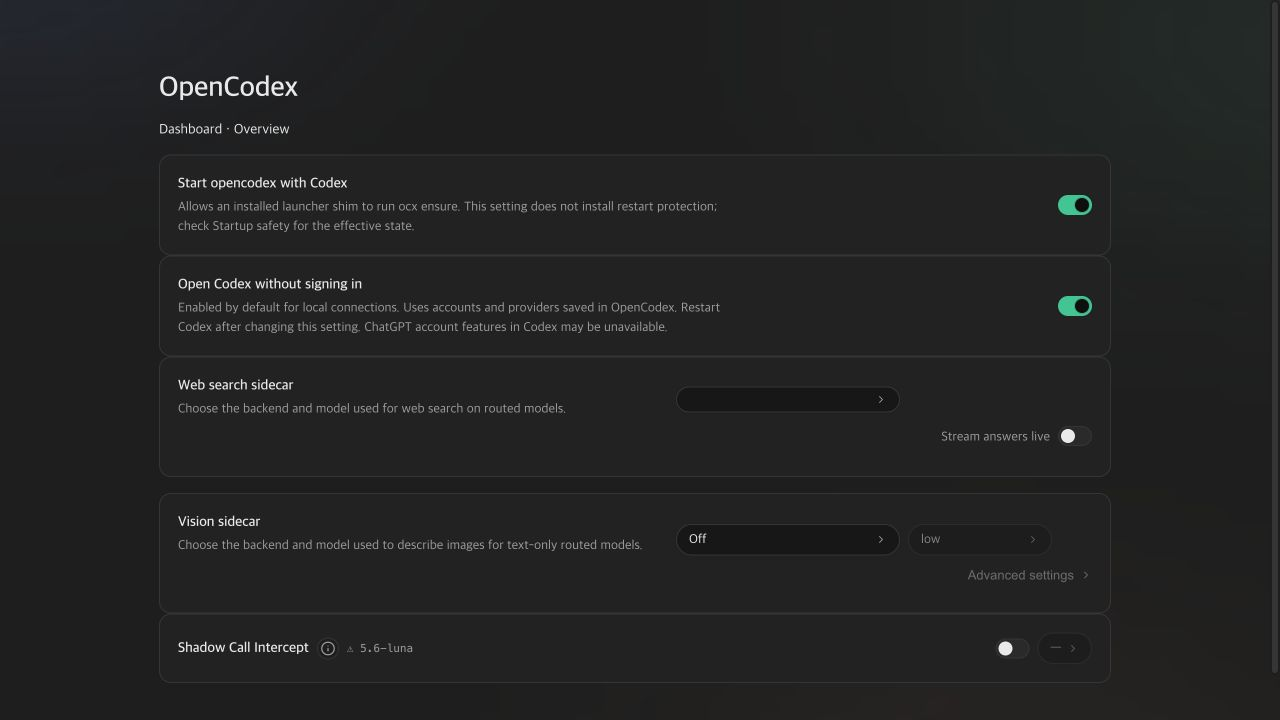
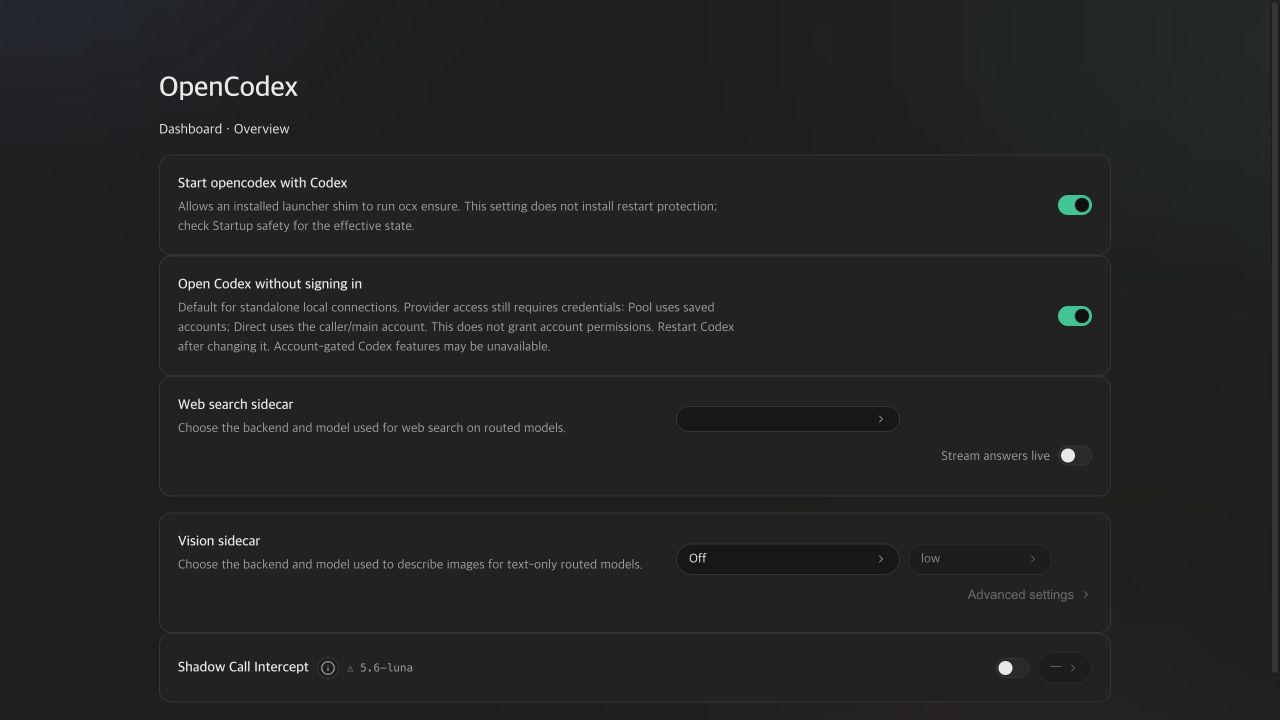
fix(codex): address authless routing and review feedback

diff --git a/gui/src/i18n/ru.ts b/gui/src/i18n/ru.ts
@@ -293,7 +293,7 @@ export const ru: Record<TKey, string> = {
   "dash.codexRestartTimeout": "Прокси не ответил вовремя. Возможно, он всё ещё останавливает app-server'ы.",
   "models.staleBanner": "Codex показывает список моделей старее этого каталога. Перезапустите Codex, чтобы перечитать его.",
   "dash.codexDesktopAuthless": "Открывать Codex без входа",
-  "dash.codexDesktopAuthlessHint": "Включено по умолчанию для локальных подключений. Использует аккаунты и провайдеров, сохранённых в OpenCodex. После изменения перезапустите Codex. Функции аккаунта ChatGPT в Codex могут быть недоступны.",
+  "dash.codexDesktopAuthlessHint": "По умолчанию для автономных локальных подключений. Доступ к провайдеру по-прежнему требует учётных данных: Pool использует сохранённые аккаунты, Direct — аккаунт вызывающей стороны/основной. Новых прав это не даёт. После изменения перезапустите Codex. Функции, требующие входа в аккаунт, могут быть недоступны.",
   "dash.codexAutoStart": "Запускать opencodex вместе с Codex",
   "dash.codexAutoStartHint": "Разрешает установленному launcher shim выполнять ocx ensure. Эта настройка не устанавливает защиту перезапуска; проверьте фактическое состояние в разделе безопасности запуска.",
   "dash.searchModel": "Модель сайдкара поиска",

diff --git a/gui/src/i18n/ja.ts b/gui/src/i18n/ja.ts
@@ -293,7 +293,7 @@ export const ja: Record<TKey, string> = {
   "dash.codexRestartTimeout": "プロキシから時間内に応答がありませんでした。app-server の停止が続いている可能性があります。",
   "models.staleBanner": "Codex はこのカタログより古いモデル一覧を表示しています。Codex を再起動すると読み直されます。",
   "dash.codexDesktopAuthless": "ログインせずに Codex を開く",
-  "dash.codexDesktopAuthlessHint": "ローカル接続では既定で有効です。OpenCodex に保存されたアカウントとプロバイダーを使用します。変更後は Codex を再起動してください。Codex 内の ChatGPT アカウント機能は利用できない場合があります。",
+  "dash.codexDesktopAuthlessHint": "単独のローカル接続では既定で有効です。プロバイダーへのアクセスには引き続き認証情報が必要です。Pool は保存済みアカウント、Direct は呼び出し元またはメインアカウントを使用します。アカウント権限は付与されません。変更後は Codex を再起動してください。アカウント必須の機能は利用できない場合があります。",
   "dash.codexAutoStart": "Codex と一緒に opencodex を起動",
   "dash.codexAutoStartHint": "インストール済み launcher shim に ocx ensure の実行を許可します。この設定だけでは再起動保護はインストールされません。起動安全性で実際の状態を確認してください。",
   "dash.searchModel": "検索サイドカーモデル",

diff --git a/gui/src/i18n/fr.ts b/gui/src/i18n/fr.ts
@@ -285,8 +285,8 @@ export const fr: Record<TKey, string> = {
   "dash.codexRestartMalformed": "Le proxy a renvoyé une réponse inattendue.",
   "dash.codexRestartTimeout": "Le proxy n’a pas répondu à temps. Il est peut-être encore en train d’arrêter les serveurs d’application.",
   "models.staleBanner": "Codex affiche une liste de modèles plus ancienne que ce catalogue. Redémarrez Codex pour la recharger.",
-  "dash.codexDesktopAuthless": "Ouvrir Codex sans connexion",
-  "dash.codexDesktopAuthlessHint": "Activé par défaut pour les connexions locales. Utilise les comptes et fournisseurs enregistrés dans OpenCodex. Redémarrez Codex après modification. Certaines fonctions du compte ChatGPT dans Codex peuvent être indisponibles.",
+  "dash.codexDesktopAuthless": "Ouvrir Codex sans se connecter",
+  "dash.codexDesktopAuthlessHint": "Par défaut pour les connexions locales autonomes. L’accès au fournisseur exige toujours des identifiants : Pool utilise les comptes enregistrés, Direct le compte appelant/principal. Aucun droit de compte supplémentaire n’est accordé. Redémarrez Codex après modification. Certaines fonctions liées au compte peuvent être indisponibles.",
   "dash.codexAutoStart": "Démarrer opencodex avec Codex",
   "dash.codexAutoStartHint": "Permet à un mécanisme de lancement installé d’exécuter ocx ensure. Ce réglage n’installe pas de protection au redémarrage ; consultez Sécurité du démarrage pour connaître l’état effectif.",
   "dash.searchModel": "Modèle auxiliaire de recherche",

diff --git a/gui/src/i18n/ko.ts b/gui/src/i18n/ko.ts
@@ -288,7 +288,7 @@ export const ko: Record<TKey, string> = {
   "dash.codexRestartTimeout": "프록시가 제때 응답하지 않았습니다. app-server를 계속 종료하는 중일 수 있습니다.",
   "models.staleBanner": "Codex가 이 카탈로그보다 오래된 모델 목록을 보여주고 있습니다. Codex를 재시작하면 새로 읽습니다.",
   "dash.codexDesktopAuthless": "로그인 없이 Codex 열기",
-  "dash.codexDesktopAuthlessHint": "로컬 연결에서 기본으로 활성화됩니다. OpenCodex에 저장된 계정과 제공자를 사용합니다. 변경 후 Codex를 다시 시작하세요. Codex의 ChatGPT 계정 기능을 사용할 수 없을 수 있습니다.",
+  "dash.codexDesktopAuthlessHint": "독립 실행형 로컬 연결에서 기본으로 활성화됩니다. 제공자 접근에는 여전히 인증 정보가 필요합니다. Pool은 저장된 계정, Direct는 호출자 또는 메인 계정을 사용합니다. 계정 권한을 부여하지 않습니다. 변경 후 Codex를 다시 시작하세요. 계정이 필요한 기능은 사용할 수 없을 수 있습니다.",
   "dash.codexAutoStart": "Codex 실행 시 opencodex 시작",
   "dash.codexAutoStartHint": "설치된 launcher shim이 ocx ensure를 실행하도록 허용합니다. 이 설정은 재부팅 보호를 설치하지 않으므로 시작 안전성에서 실제 상태를 확인하세요.",
   "dash.searchModel": "서치 사이드카 모델",

diff --git a/gui/src/i18n/tr.ts b/gui/src/i18n/tr.ts
@@ -294,7 +294,7 @@ export const tr: Record<TKey, string> = {
   "dash.codexRestartTimeout": "Proxy zamanında yanıt vermedi. App-server'ları durdurmaya devam ediyor olabilir.",
   "models.staleBanner": "Codex, bu katalogdan daha eski bir model listesi gösteriyor. Yeniden okumak için Codex'i yeniden başlatın.",
   "dash.codexDesktopAuthless": "Codex’i oturum açmadan başlat",
-  "dash.codexDesktopAuthlessHint": "Yerel bağlantılarda varsayılan olarak etkindir. OpenCodex’te kayıtlı hesapları ve sağlayıcıları kullanır. Değişiklikten sonra Codex’i yeniden başlatın. Codex’teki ChatGPT hesap özellikleri kullanılamayabilir.",
+  "dash.codexDesktopAuthlessHint": "Bağımsız yerel bağlantılarda varsayılandır. Sağlayıcı erişimi hâlâ kimlik bilgileri gerektirir: Pool kayıtlı hesapları, Direct çağıranın/ana hesabın bilgilerini kullanır. Ek hesap yetkisi vermez. Değişiklikten sonra Codex’i yeniden başlatın. Hesaba bağlı Codex özellikleri kullanılamayabilir.",
   "dash.codexAutoStart": "opencodex'i Codex ile başlat",
   "dash.codexAutoStartHint": "Yüklü bir shim'in ocx ensure çalıştırmasına izin verir. Arka plan servisi veya yeniden başlatma koruması kurmaz; sistem durumu için Başlatma Güvenliği'ne bakın.",
   "dash.searchModel": "Arama yan araç modeli",

diff --git a/gui/tests/vision-sidecar-dashboard.test.tsx b/gui/tests/vision-sidecar-dashboard.test.tsx
@@ -414,8 +414,11 @@ test("Desktop login preference is persisted before full sync; sync failure keeps
     if (init?.method === "PUT") {
       const body = JSON.parse(String(init.body));
       writes.push({ path, body });
-      saved = body.codexDesktopAuthless;
-      return Response.json({ codexDesktopAuthless: saved });
+      if (body.codexDesktopAuthless !== undefined) {
+        saved = body.codexDesktopAuthless;
+        return Response.json({ codexDesktopAuthless: saved, catalogRefreshPending: true });
+      }
+      return Response.json({ codexAutoStart: body.codexAutoStart, catalogRefreshPending: false });
     }
     if (path.endsWith("/api/sync")) {
       writes.push({ path, body: null });
@@ -441,6 +444,10 @@ test("Desktop login preference is persisted before full sync; sync failure keeps
     ]);
     expect(latest?.settings?.codexDesktopAuthless).toBe(false);
     expect(latest?.syncError).toBe("sync unavailable");
+    expect(latest?.settings?.catalogRefreshPending).toBe(true);
+    await act(async () => { await latest!.toggleCodexAutoStart(); });
+    expect(latest?.settings?.codexAutoStart).toBe(false);
+    expect(latest?.settings?.catalogRefreshPending).toBe(true);
   } finally {
     await act(async () => { root?.unmount(); });
     root = null;

diff --git a/gui/src/i18n/de.ts b/gui/src/i18n/de.ts
@@ -284,7 +284,7 @@ export const de: Record<TKey, string> = {
   "dash.codexRestartTimeout": "Der Proxy hat nicht rechtzeitig geantwortet. Möglicherweise stoppt er noch App-Server.",
   "models.staleBanner": "Codex zeigt eine ältere Modellliste als dieser Katalog. Starte Codex neu, um sie neu zu laden.",
   "dash.codexDesktopAuthless": "Codex ohne Anmeldung öffnen",
-  "dash.codexDesktopAuthlessHint": "Für lokale Verbindungen standardmäßig aktiviert. Nutzt die in OpenCodex gespeicherten Konten und Anbieter. Codex nach einer Änderung neu starten. ChatGPT-Kontofunktionen in Codex sind möglicherweise nicht verfügbar.",
+  "dash.codexDesktopAuthlessHint": "Standard für eigenständige lokale Verbindungen. Anbieterzugriff benötigt weiterhin Zugangsdaten: Pool nutzt gespeicherte Konten, Direct das Konto des Aufrufers bzw. Hauptkonto. Dadurch entstehen keine neuen Kontorechte. Nach Änderungen Codex neu starten. Kontogebundene Codex-Funktionen können fehlen.",
   "dash.codexAutoStart": "opencodex mit Codex starten",
   "dash.codexAutoStartHint": "Erlaubt einem installierten Launcher-Shim, ocx ensure auszuführen. Diese Einstellung installiert keinen Neustartschutz; prüfe den effektiven Zustand unter Startsicherheit.",
   "dash.searchModel": "Such-Sidecar-Modell",

diff --git a/gui/src/i18n/en.ts b/gui/src/i18n/en.ts
@@ -296,7 +296,7 @@ export const en = {
   "dash.codexRestartTimeout": "The proxy did not answer in time. It may still be stopping app-servers.",
   "models.staleBanner": "Codex is showing an older model list than this catalog. Restart Codex to reload it.",
   "dash.codexDesktopAuthless": "Open Codex without signing in",
-  "dash.codexDesktopAuthlessHint": "Enabled by default for local connections. Uses accounts and providers saved in OpenCodex. Restart Codex after changing this setting. ChatGPT account features in Codex may be unavailable.",
+  "dash.codexDesktopAuthlessHint": "Default for standalone local connections. Provider access still requires credentials: Pool uses saved accounts; Direct uses the caller/main account. This does not grant account permissions. Restart Codex after changing it. Account-gated Codex features may be unavailable.",
   "dash.codexAutoStart": "Start opencodex with Codex",
   "dash.codexAutoStartHint": "Allows an installed launcher shim to run ocx ensure. This setting does not install restart protection; check Startup safety for the effective state.",
   "dash.searchModel": "Search sidecar model",

diff --git a/gui/src/i18n/zh-TW.ts b/gui/src/i18n/zh-TW.ts
@@ -185,7 +185,7 @@ export const zhTW: Record<TKey, string> = {
   "dash.codexRestartTimeout": "代理未在時限內回應，可能仍在停止 app-server。",
   "models.staleBanner": "Codex 顯示的模型清單比目前的目錄舊。重新啟動 Codex 即可重新讀取。",
   "dash.codexDesktopAuthless": "無需登入即可開啟 Codex",
-  "dash.codexDesktopAuthlessHint": "本機連線預設啟用。使用儲存在 OpenCodex 中的帳戶和供應商。變更後請重新啟動 Codex。Codex 中的 ChatGPT 帳戶功能可能無法使用。",
+  "dash.codexDesktopAuthlessHint": "獨立執行的本機連線預設啟用。存取供應商仍需要憑證：Pool 使用已儲存的帳戶，Direct 使用呼叫端或主帳戶。此設定不會授予帳戶權限。變更後請重新啟動 Codex。需要帳戶登入的 Codex 功能可能無法使用。",
   "dash.codexAutoStart": "隨 Codex 啟動 opencodex",
   "dash.codexAutoStartHint": "允許已安裝的 launcher shim 執行 ocx ensure。此設定不會安裝重新啟動保護；請在啟動安全中檢查實際狀態。",
   "dash.searchModel": "搜尋附屬模型",

diff --git a/gui/src/i18n/zh.ts b/gui/src/i18n/zh.ts
@@ -288,7 +288,7 @@ export const zh: Record<TKey, string> = {
   "dash.codexRestartTimeout": "代理未在超时前响应，可能仍在停止 app-server。",
   "models.staleBanner": "Codex 显示的模型列表比当前目录旧。重启 Codex 即可重新读取。",
   "dash.codexDesktopAuthless": "无需登录即可打开 Codex",
-  "dash.codexDesktopAuthlessHint": "本地连接默认启用。使用保存在 OpenCodex 中的账户和提供商。更改后请重启 Codex。Codex 中的 ChatGPT 账户功能可能不可用。",
+  "dash.codexDesktopAuthlessHint": "独立运行的本地连接默认启用。访问提供商仍需要凭据：Pool 使用已保存的账户，Direct 使用调用方或主账户。此设置不会授予账户权限。更改后请重启 Codex。需要账户登录的 Codex 功能可能不可用。",
   "dash.codexAutoStart": "随 Codex 启动 opencodex",
   "dash.codexAutoStartHint": "允许已安装的 launcher shim 运行 ocx ensure。此设置不会安装重启保护；请在启动安全中检查实际状态。",
   "dash.searchModel": "搜索附属模型",

diff --git a/gui/src/pages/use-dashboard-data.ts b/gui/src/pages/use-dashboard-data.ts
@@ -621,7 +621,7 @@ export function useDashboardData(apiBase: string) {
       });
       const data = await requireJson<SettingsData>(res, "save failed");
       settingsMutationEpochRef.current += 1;
-      setSettings(prev => prev ? { ...prev, [key]: data[key], catalogRefreshPending: data.catalogRefreshPending, startupHealth: data.startupHealth ?? prev.startupHealth } : prev);
+      setSettings(prev => prev ? { ...prev, [key]: data[key], catalogRefreshPending: key === "codexDesktopAuthless" ? data.catalogRefreshPending : prev.catalogRefreshPending, startupHealth: data.startupHealth ?? prev.startupHealth } : prev);
       if (key === "codexDesktopAuthless") await runSync();
     } catch {
       setSettings(prev => prev ? { ...prev, [key]: !next } : prev);

diff --git a/tests/codex-integration/codex-inject.test.ts b/tests/codex-integration/codex-inject.test.ts
@@ -87,6 +87,17 @@ describe("Codex config injection", () => {
     );
   });
 
+  test("rejects authless admission-token targets before generating either config form", () => {
+    const target = {
+      baseUrl: "http://127.0.0.1:10100/v1",
+      requiresAdmissionToken: true,
+      desktopAuthless: true,
+      tokenEnv: "OPENCODEX_API_AUTH_TOKEN" as const,
+    };
+    expect(() => buildProviderTableBlock(target)).toThrow("cannot require an admission token");
+    expect(() => buildProfileFile(target, null)).toThrow("cannot require an admission token");
+  });
+
   test("omits provider-level Responses WebSocket support by default", () => {
     const block = buildProviderTableBlock(10100);
 
